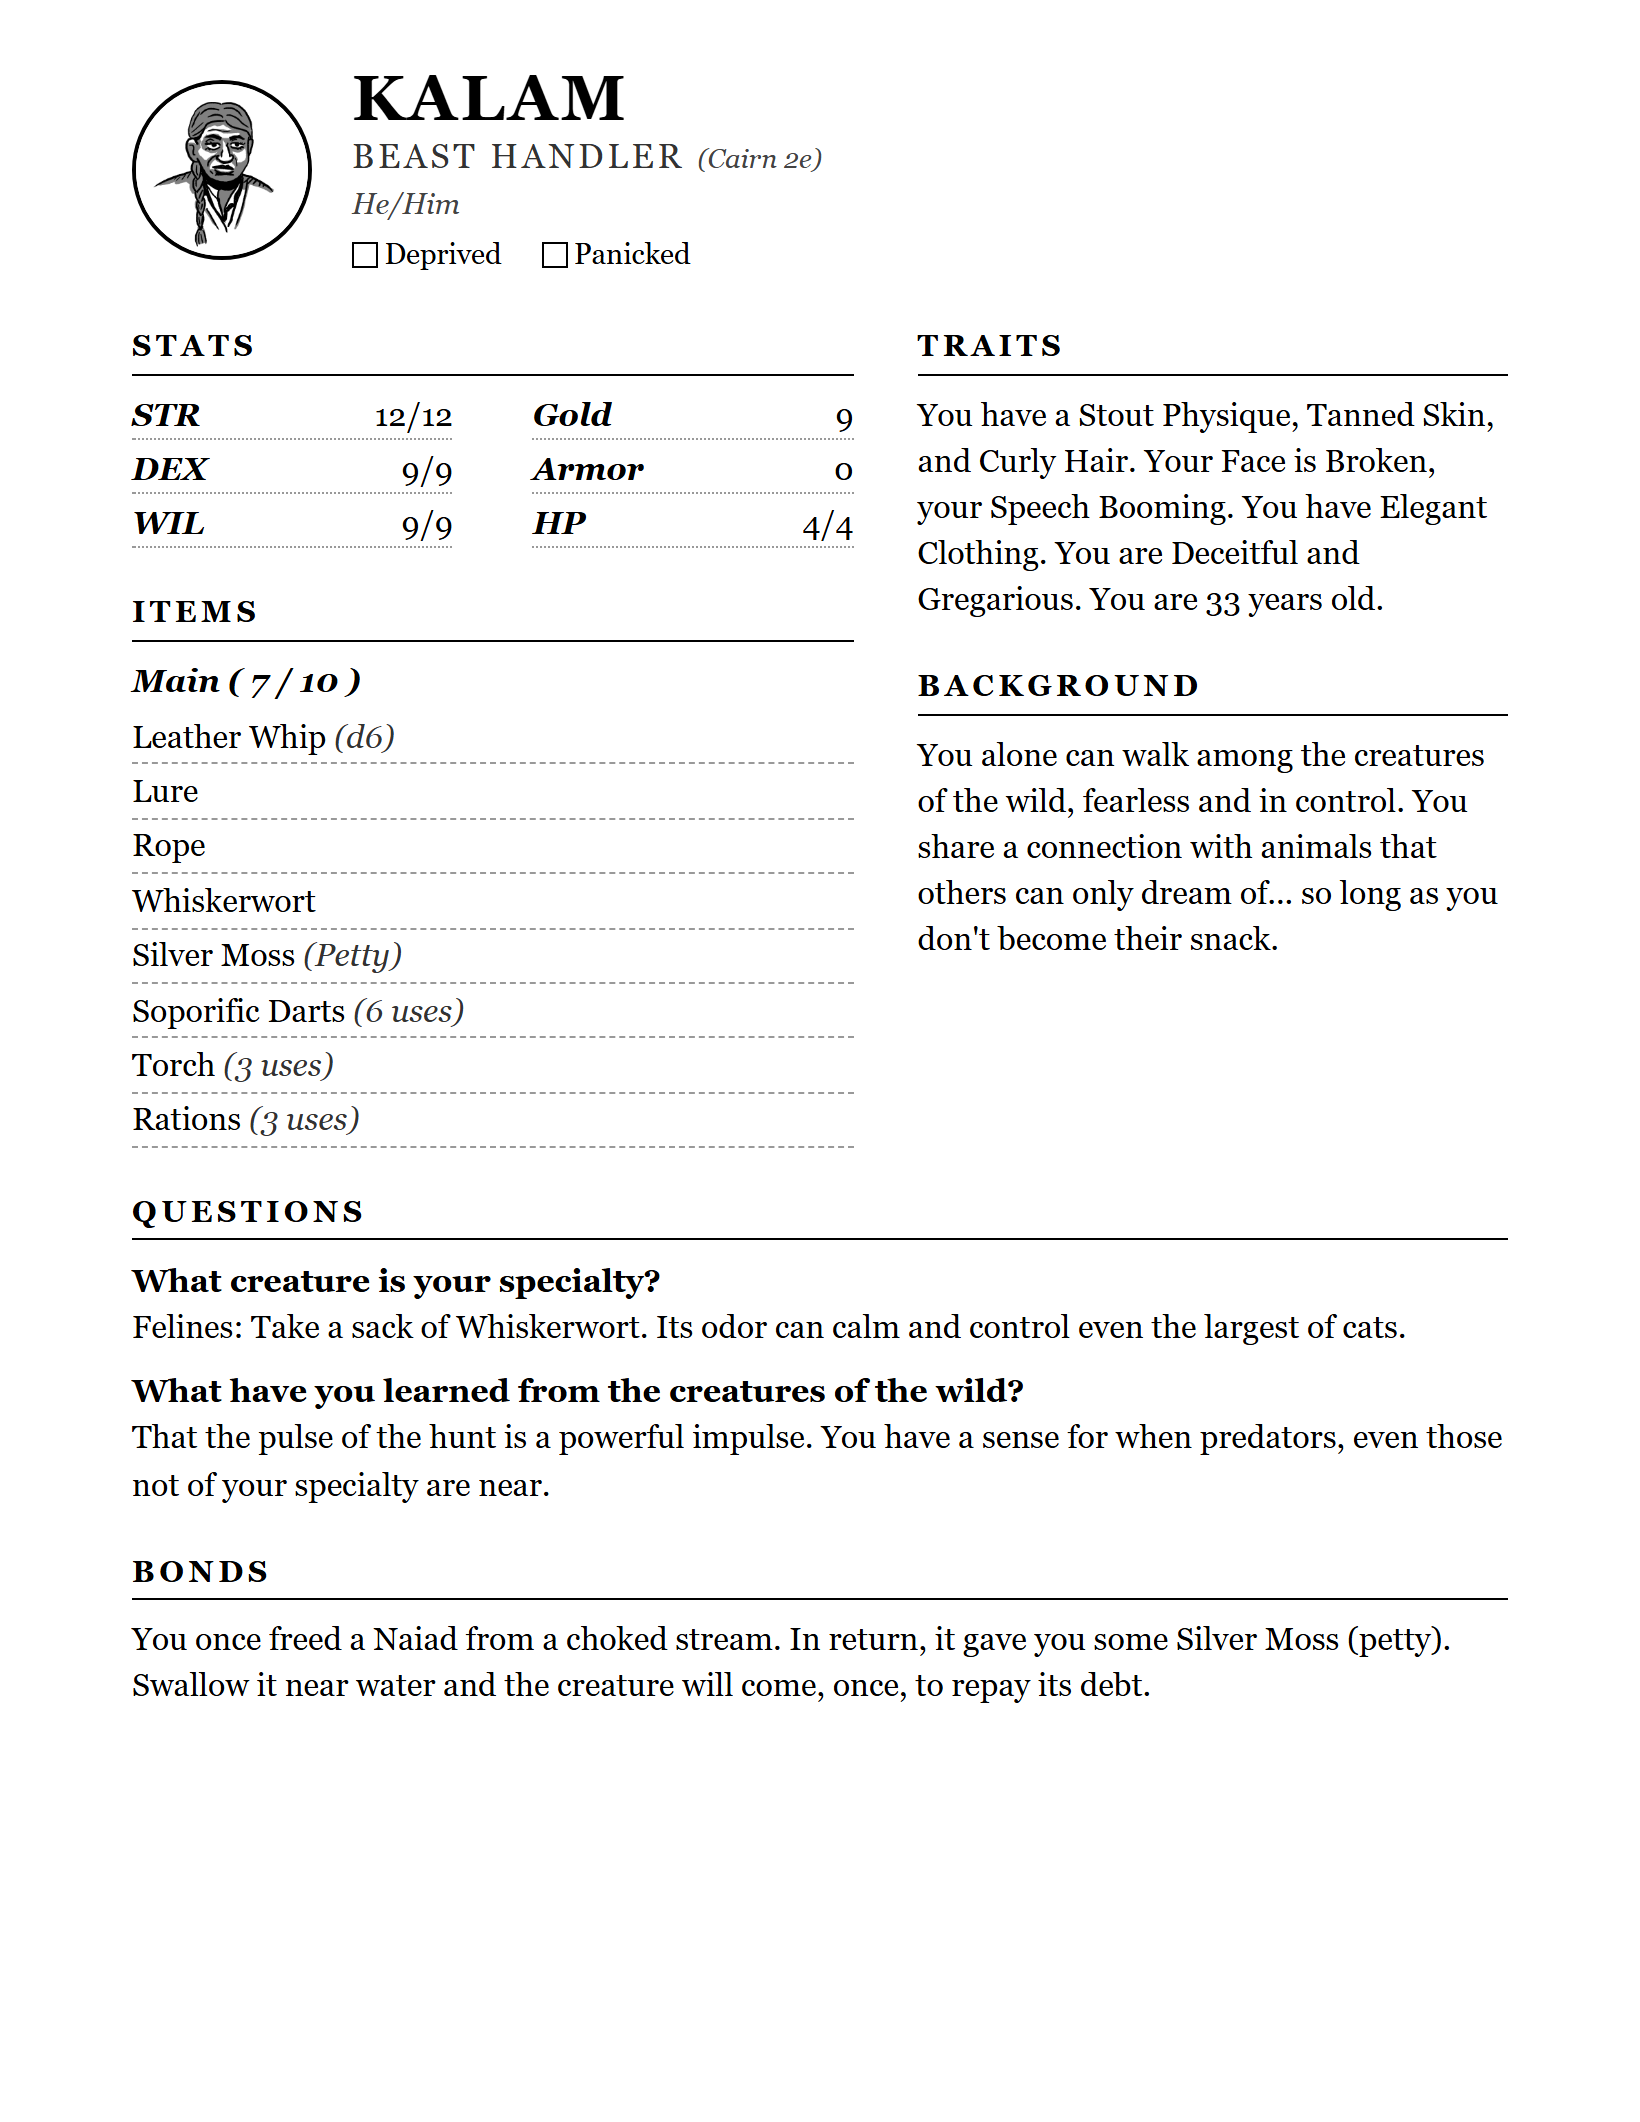
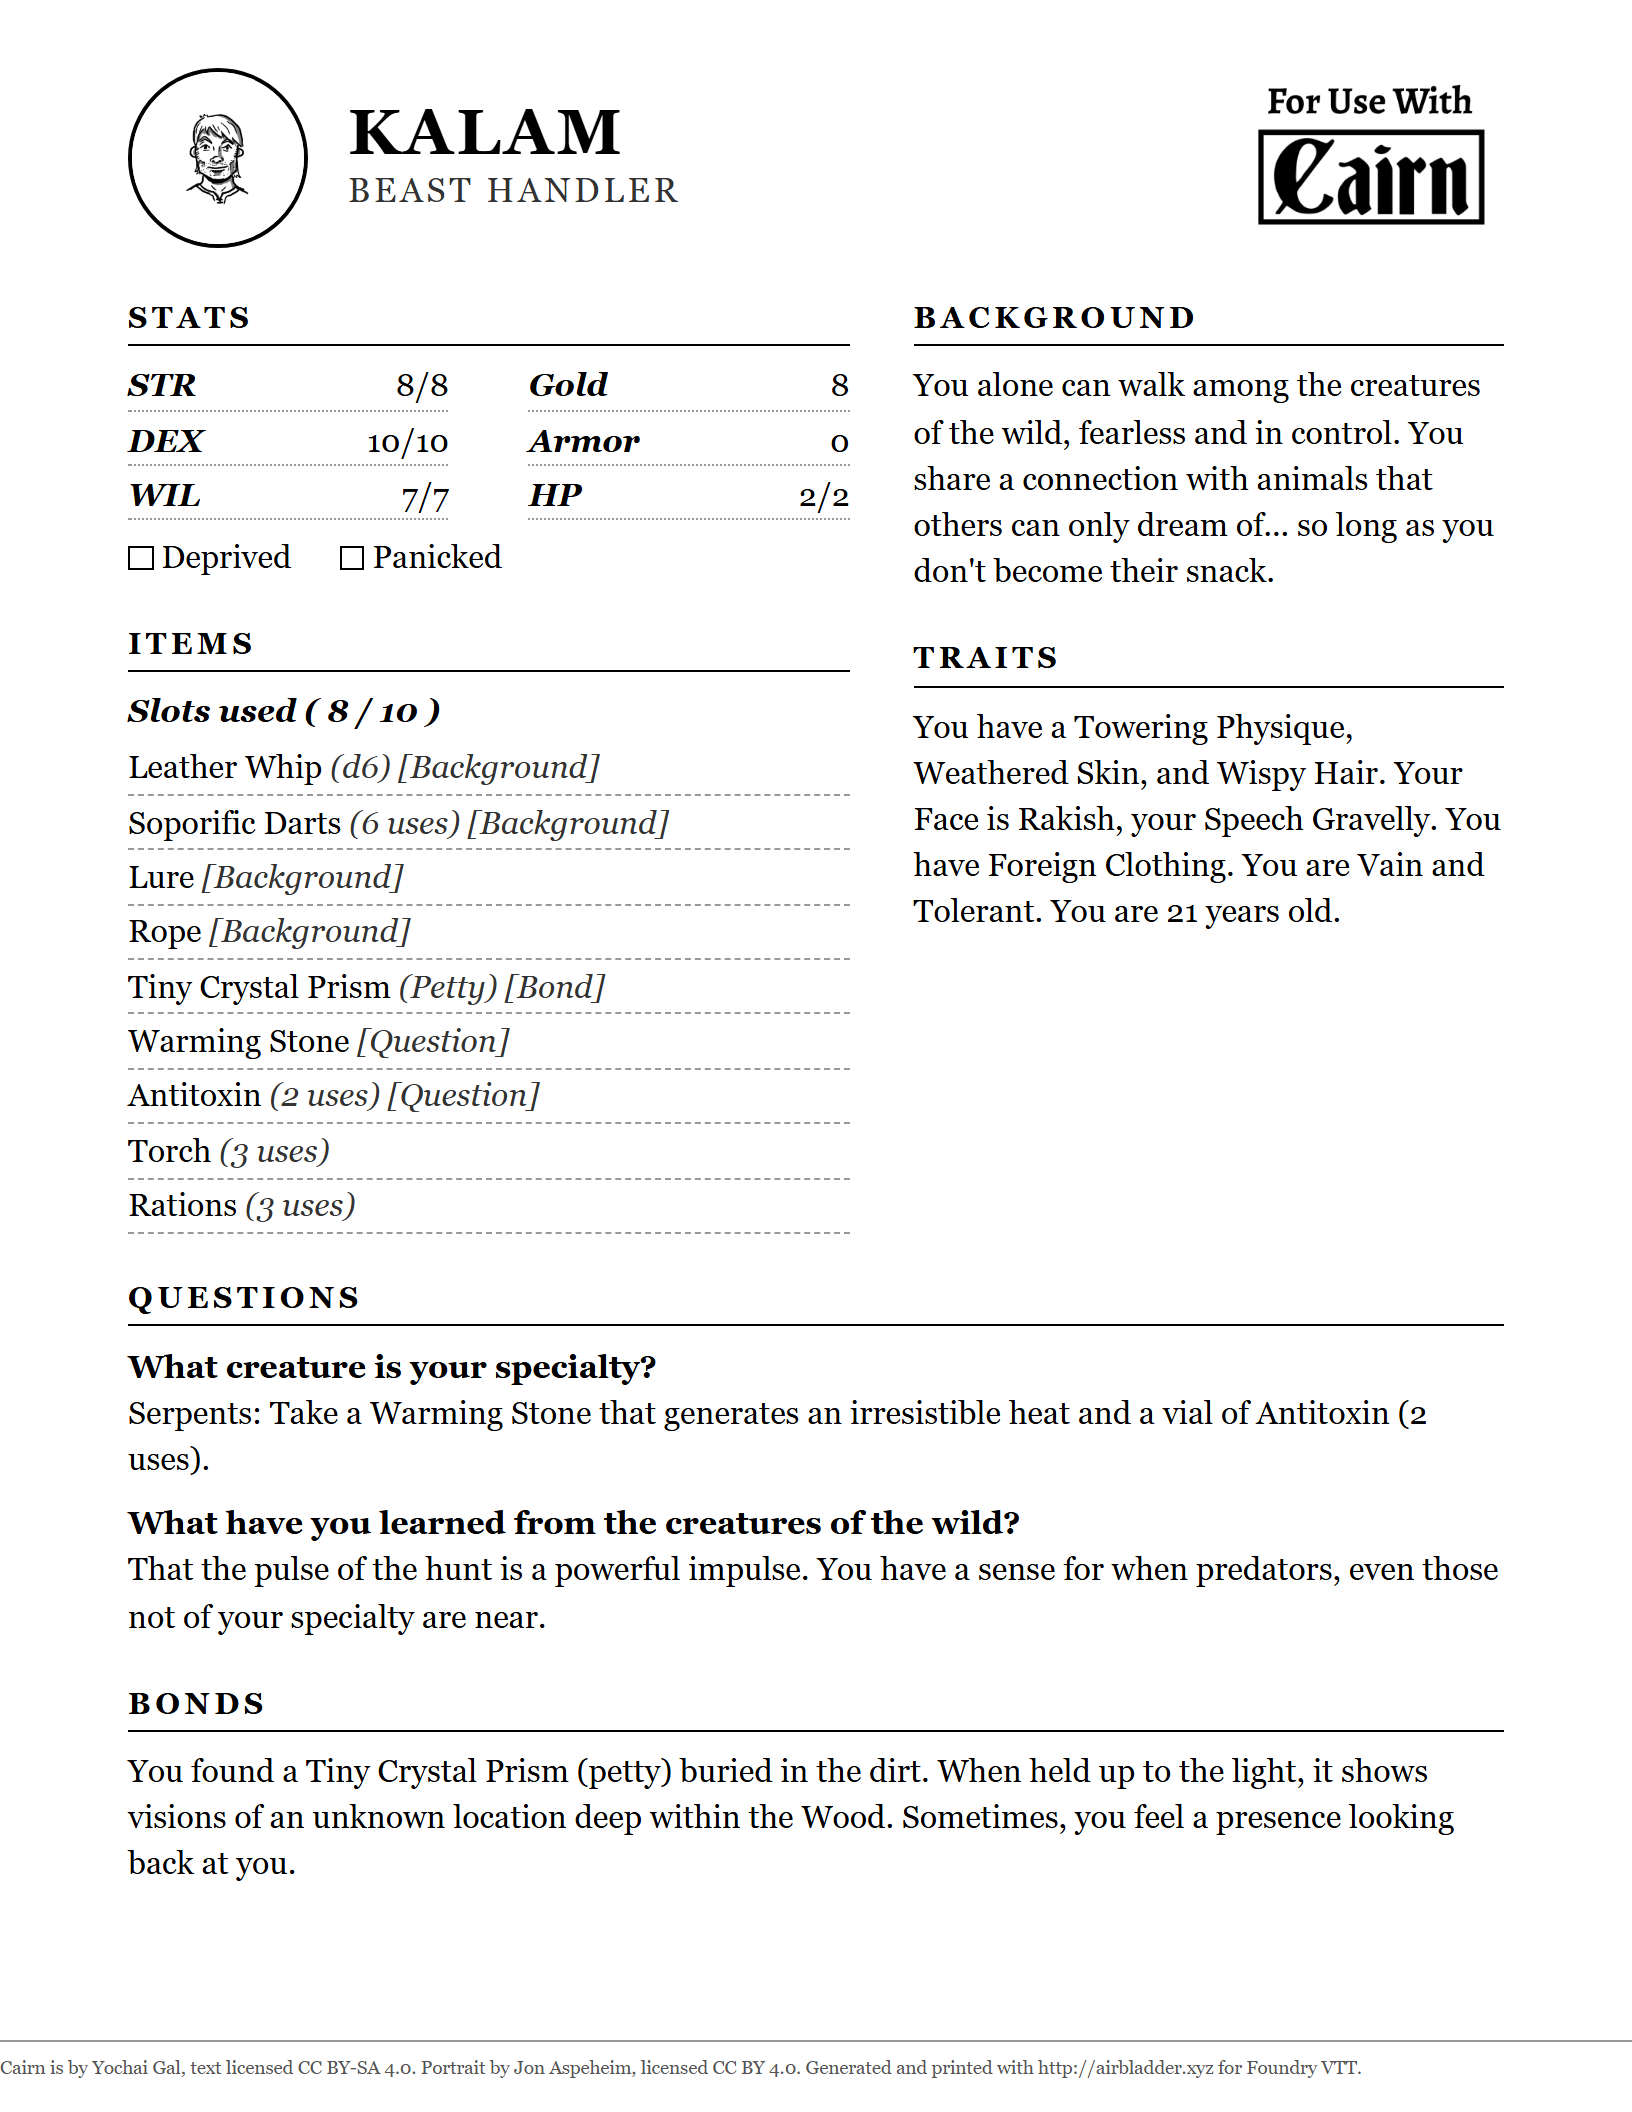
The site catches up: NPC generation named, two screenshots reshot
The lede and features list still said "character and hireling
generation" — the NPC generator existed only in the docs cards. Both now
name it, with the rolled stat block and the full pack.

Two of the five screenshots dated to 2026-08-10 and predated too much to
stand: game-settings.png was a whole settings generation behind (badge
[23]; no show-omens, no grant-tags-print row), and sheet-print.png showed
Traits above Background, no grant tags, no stamp, and none of this week's
footer. Both reshot from the dev world — the settings shot dark per the
recorded convention, over a shade because the world backdrop's watermark
ghosts through the translucent panel; the print shot at print media,
Letter, 2x, matching the old frame.

Kalam, the recorded screenshot subject, had been deleted from the dev
world — recreated as a generated 2e Beast Handler and left as the
standing subject. His generated portrait came from the user's custom
portrait folder, whose licence the site cannot vouch for, so he wears a
shipped Aspeheim portrait instead — which also puts the artist's credit
line into the printed footer, as the page's own rules require.

build:site and dev:site green. The READMEs reference these images by raw
master URL and pick them up at the release merge unchanged.

diff --git a/site/index.html b/site/index.html
@@ -38,7 +38,7 @@
 <section class="lede">
   <p>
     Air Bladder is a friendly companion system — <em>not</em> the official Cairn system.
-    It gives you verbose 2e backgrounds, character and hireling generation, a marketplace,
+    It gives you verbose 2e backgrounds, character, hireling and NPC generation, a marketplace,
     containers, and Warden-facing roll tables, with minimal automation and a lot of tooltips.
   </p>
   <p class="whence">
@@ -68,7 +68,7 @@
     <li>Barebones sheets support optional homebrew features</li>
     <li><strong>Optional GLOG Magic</strong> — the official <a href="https://cairnrpg.com/hacks/glog-magic/">GLOG Magic</a> hack behind a Warden switch: spells on scrolls, a found Grimoire binding pages, 1–4 Magic Dice with the rolled values written into the spell's own text, Mishaps on doubles, and all 100 GLOG spells as a compendium</li>
     <li><strong>Custom 2e backgrounds</strong> as a third source — seven class backgrounds ship with the system, and Wardens can write, preview, lint and share their own</li>
-    <li>Random or manual generation of <strong>hireling</strong> sheets</li>
+    <li>Random or manual generation of <strong>hireling and NPC</strong> sheets — a career or a Background, a rolled stat block, and a full pack</li>
     <li>A <strong>marketplace</strong> and containers</li>
     <li>Warden-facing <strong>roll tables</strong> — encounters, travel, weather, NPCs, monsters</li>
     <li>A gallery of 80 character portraits by <a href="https://jonaspeheim.itch.io/">Jon Aspeheim</a></li>
@@ -129,7 +129,7 @@
     </a>
     <a class="card" href="https://github.com/domfortunato/air-bladder/blob/master/docs/generating-npcs.md">
       <h3>Generating NPCs and hirelings</h3>
-      <p>One button for somebody the party meets — a Background, a Quirk and a Goal off the Warden's Guide tables, over a rolled stat block — and one for somebody they pay, who arrives with a career's stat block, gear and day rate.</p>
+      <p>One button for somebody the party meets — a Background, a Quirk and a Goal off the Warden's Guide tables, over a rolled stat block and a full pack — and one for somebody they pay, who arrives with a career's stat block, gear and day rate.</p>
     </a>
     <a class="card" href="https://github.com/domfortunato/air-bladder/blob/master/docs/generating-monsters.md">
       <h3>Generating monsters</h3>
